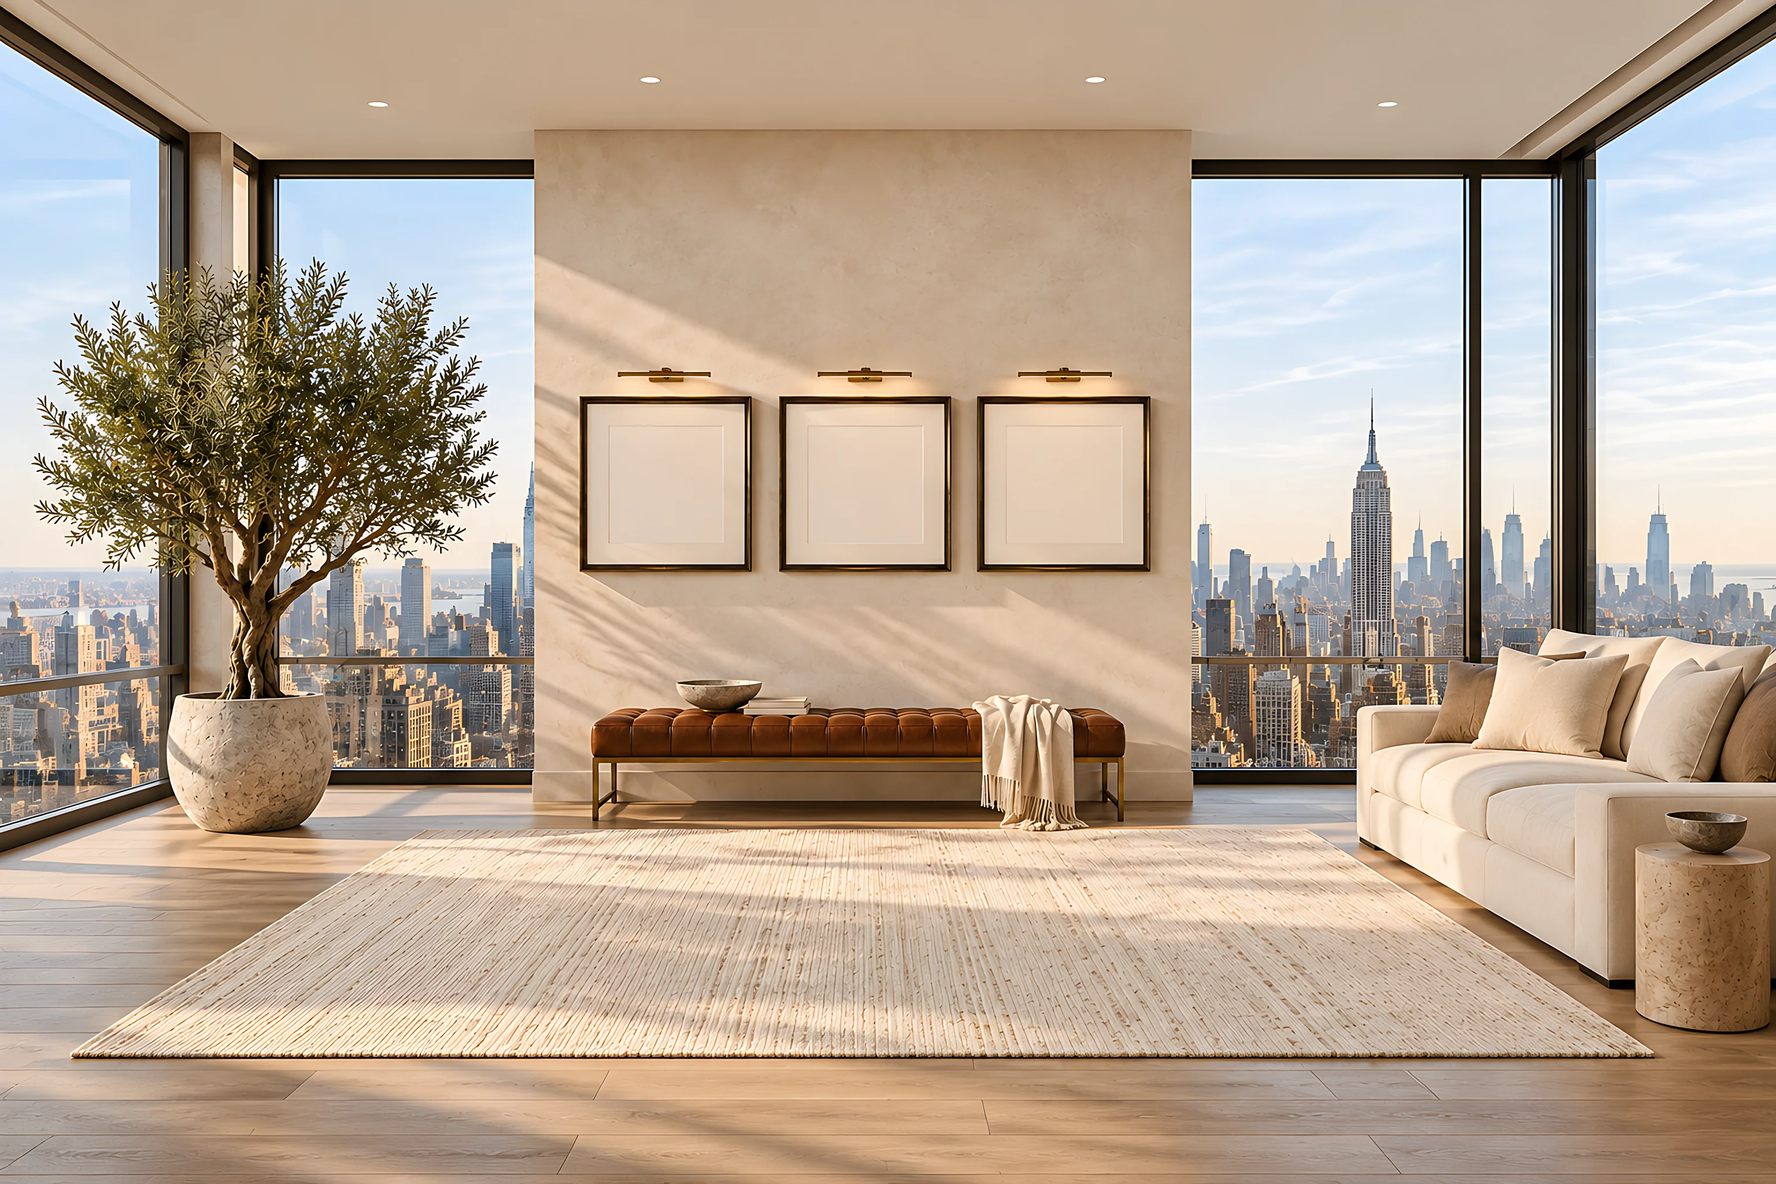
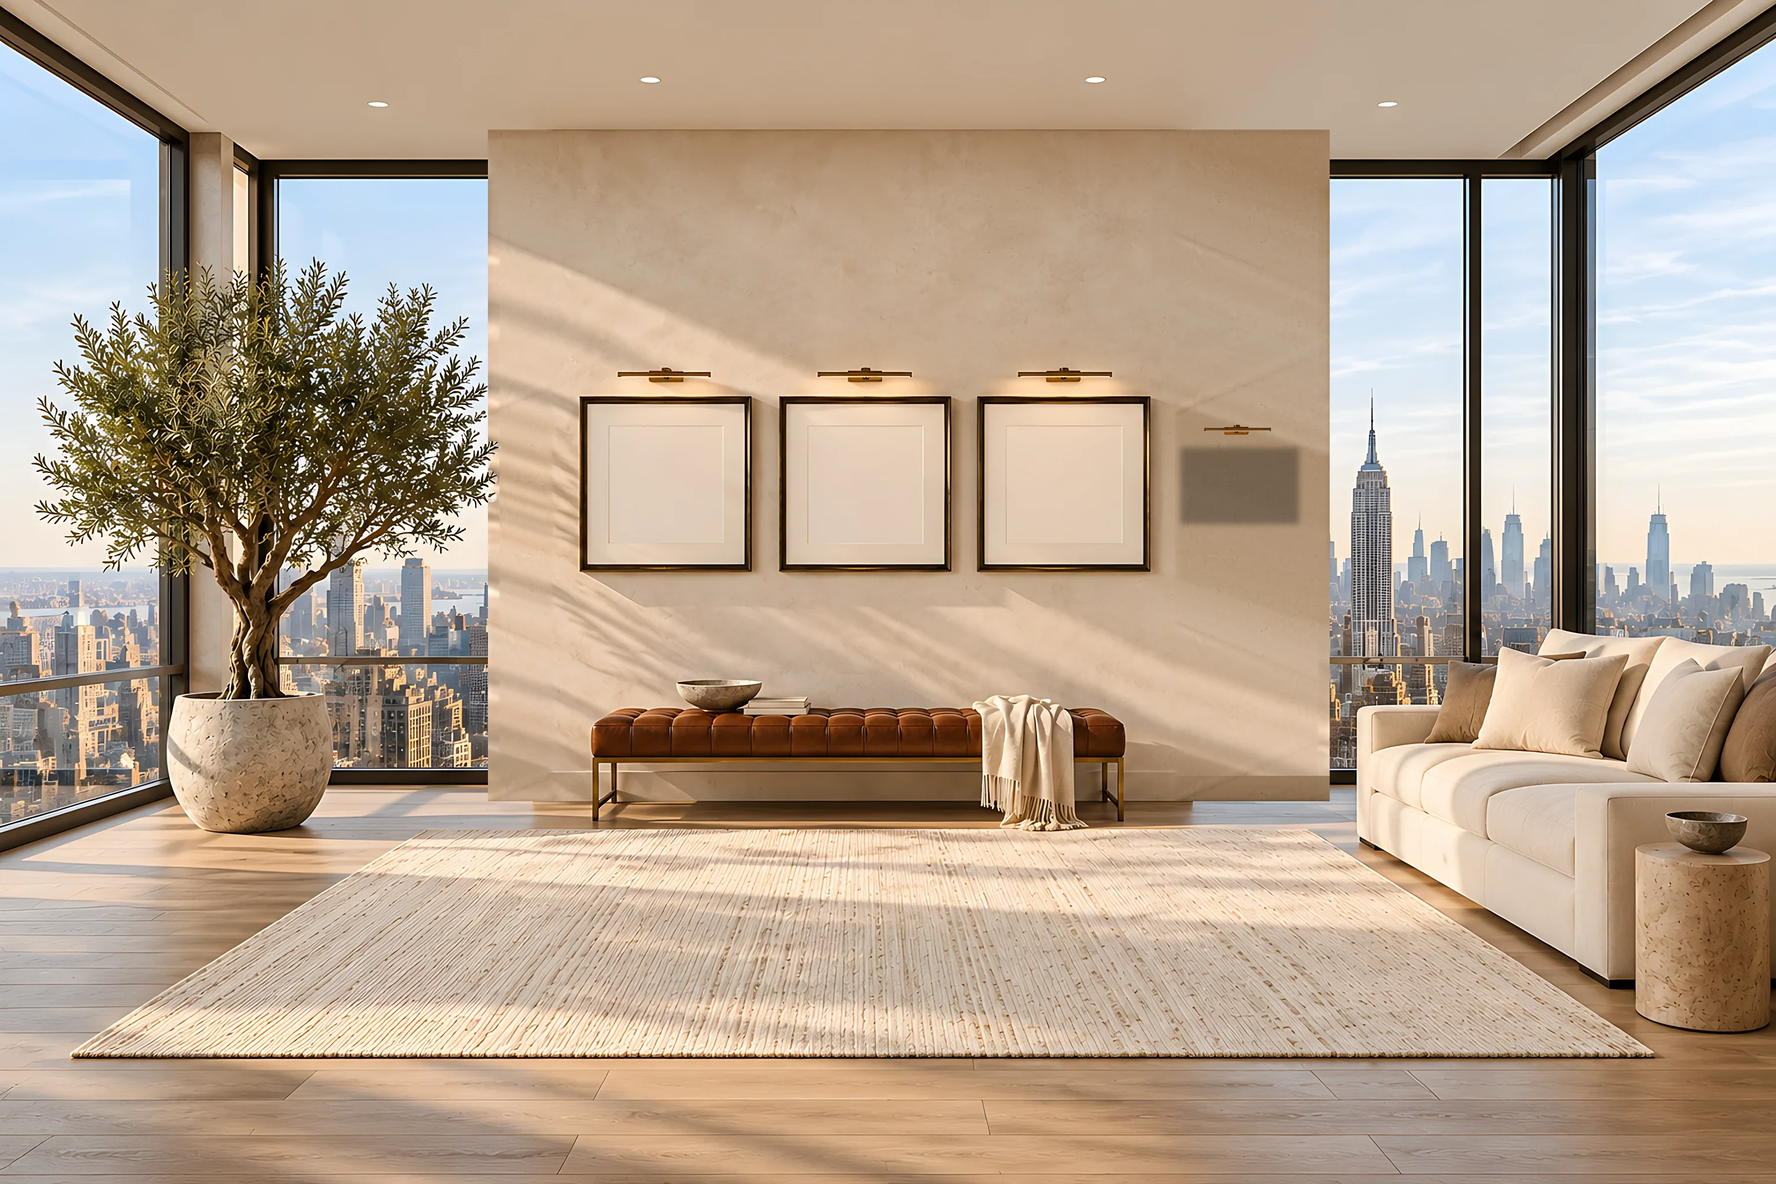
Home: widen the wall and hang Femi's travel map
The limestone wall is widened in all three lights (x 422-1150), continuing
the wall's own light, sun streaks and plaster, with the tree kept in front.
Femi's travel map hangs beside the Goldman Sachs painting with its own
picture light, lit per light like the paintings, captioned 'Travel - 30+
countries' and linking to About. Sky masks exclude the new wall; the phone
close-up widens to include the map.

Claude-Session: https://claude.ai/code/session_01Q2iX8U4MkKUcYxVfpZrcab

Changed region(s): [[0.6562, 0.0938, 0.75, 0.6875], [0.25, 0.0938, 0.3125, 0.6875]]

diff --git a/src/components/room/GalleryRoom.tsx b/src/components/room/GalleryRoom.tsx
@@ -1,6 +1,6 @@
 import Link from 'next/link'
 import Arrow from '@/components/Arrow'
-import { FRAMES, IDENTITY, ROOM_BASE, ROOM_MODES, SCENE, ZONES, rectStyle } from '@/content/scene'
+import { FRAMES, IDENTITY, MAP, ROOM_BASE, ROOM_MODES, SCENE, ZONES, rectStyle } from '@/content/scene'
 import { PERSON } from '@/content/site'
 import { LOAD_ACTIVE_LIGHT } from '@/lib/roomLights'
 import RoomLights from './RoomLights'
@@ -8,8 +8,8 @@ import RoomSky from './RoomSky'
 
 const WIDTHS = [1536, 2048, 3072]
 const ROOM_DESCRIPTION = 'A quiet gallery room high above New York: three framed paintings on a limestone wall above a leather bench, an olive tree and a sofa by floor-to-ceiling windows.'
-/** Rendered scene width per layout (see .room5 in globals.css): crop ≈ 252vw, wall = contain-fit, else full width. */
-const SIZES = '(max-width: 599px) 252vw, (min-width: 860px) and (min-height: 528px) and (min-aspect-ratio: 4/3) max(88vw, calc(100svh * 1.5)), 100vw'
+/** Rendered scene width per layout (see .room5 in globals.css): crop ≈ 228vw, wall = contain-fit, else full width. */
+const SIZES = '(max-width: 599px) 228vw, (min-width: 860px) and (min-height: 528px) and (min-aspect-ratio: 4/3) max(88vw, calc(100svh * 1.5)), 100vw'
 
 /**
  * Homepage room: one scene at the image's intrinsic 3:2 ratio. Layouts, chosen in CSS:
@@ -50,6 +50,12 @@ export default function GalleryRoom() {
               ))}
             </div>
           ))}
+          <div className="room5__art room5__art--map" style={{ ...rectStyle(MAP.mat), ['--art' as string]: `url(/art/lit/morning-map.webp)` }} aria-hidden="true">
+            {ROOM_MODES.map(m => (
+              // eslint-disable-next-line @next/next/no-img-element
+              <img key={m} data-light={m} suppressHydrationWarning data-src={`/art/lit/${m}-map.webp`} alt="" width={480} height={311} decoding="async" />
+            ))}
+          </div>
           <div className="room5__identity" style={rectStyle(ZONES.identity)}>
             <p className="room5__eyebrow">{IDENTITY.positioning}</p>
             <h1 className="room5__name">{PERSON.name}</h1>
@@ -64,11 +70,19 @@ export default function GalleryRoom() {
               </Link>
             ))}
           </nav>
+          <div className="room5__hang room5__hang--map">
+            <Link href={MAP.href} className="room5__frame room5__frame--map" style={rectStyle(MAP.hitbox)}>
+              <span className="room5__company">{MAP.title}</span>
+              <span className="room5__dates" aria-hidden="true">{MAP.note}</span>
+              <span className="sr-only">: {MAP.label}</span>
+            </Link>
+          </div>
           {/* Tablet/phone layouts: the paintings stay clickable. Keyboard and screen-reader users use the labelled list below. */}
           <div className="room5__touch" aria-hidden="true">
             {FRAMES.map(f => (
               <Link key={f.id} href={f.href} tabIndex={-1} className="room5__tap" style={rectStyle(f.hitbox)} />
             ))}
+            <Link href={MAP.href} tabIndex={-1} className="room5__tap" style={rectStyle(MAP.hitbox)} />
           </div>
         </div>
         <script dangerouslySetInnerHTML={{ __html: LOAD_ACTIVE_LIGHT }} />

diff --git a/src/content/scene.ts b/src/content/scene.ts
@@ -13,7 +13,7 @@ type Rect = [x: number, y: number, w: number, h: number]
 /** Wall text block (above the picture lights) and the slice phones see (frames + bench). */
 export const ZONES: { identity: Rect; mobileCrop: Rect } = {
   identity: [474, 150, 544, 158],
-  mobileCrop: [440, 270, 610, 450],
+  mobileCrop: [472, 250, 676, 499],   // paintings, travel map and bench
 }
 
 /** Identity on the wall. Positioning is Femi's selected emphasis; the line is a synthesis of femifalade.com. */
@@ -44,6 +44,18 @@ export const FRAMES: Frame[] = [
   { id: 'carlyle', company: 'The Carlyle Group', role: 'Associate, EMEA Fund Operations', dates: 'Jun 2021 – Nov 2023', years: '2021 – 2023', href: '/experience#the-carlyle-group', art: '/art/carlyle-painting', mat: [698, 368, 100, 102], hitbox: [670, 339, 156, 247] },
   { id: 'gs', company: 'Goldman Sachs', role: 'Senior Associate, Global Banking and Markets Transformation', dates: 'Nov 2023 – Present', years: '2023 – Present', href: '/experience#goldman-sachs', art: '/art/gs-painting', mat: [870, 368, 100, 102], hitbox: [841, 339, 157, 247] },
 ]
+
+/** The travel map hung beside the paintings on the widened wall (Femi's supplied artwork; docs/decision-log.md DL-46). */
+export const MAP = {
+  title: 'Travel',
+  /** Website wording (Travel page: "30+ countries · 60+ cities"; About: "more than thirty countries and counting"). */
+  note: '30+ countries',
+  label: 'more than thirty countries and counting',
+  href: '/about#outside-work',
+  art: '/art/map',
+  mat: [1020, 384, 102, 66] as Rect,
+  hitbox: [1004, 339, 136, 247] as Rect,
+}
 
 export const pct = (v: number, of: number) => `${(v / of) * 100}%`
 export const rectStyle = ([x, y, w, h]: Rect) => ({ left: pct(x, SCENE.w), top: pct(y, SCENE.h), width: pct(w, SCENE.w), height: pct(h, SCENE.h) })

diff --git a/src/app/globals.css b/src/app/globals.css
@@ -742,6 +742,11 @@ html[data-time='night'] .room5 img[data-light='night'] { opacity: 1; }
 /* Artwork in the mats: a live layer, never painted into the room image */
 .room5__art { position: absolute; overflow: hidden; background: #d8cbb6; }
 .room5__art img { position: absolute; inset: 0; width: 100%; height: 100%; object-fit: cover; }
+.room5__art--map { background: #e9dfcc; }
+.room5__art--map::after { box-shadow: none; }      /* the map carries its own frame; the wall shadow is in the room image */
+.room5__hang--map::before { display: none; }
+.room5__frame--map::before { content: ''; position: absolute; left: -10%; right: -10%; bottom: -4%; height: 34%; z-index: -1; background: radial-gradient(ellipse 52% 50% at 50% 56%, var(--cap-wash) 62%, transparent 100%); }
+.room5__frame--map { isolation: isolate; }
 .room5__art::after { content: ''; position: absolute; inset: 0; box-shadow: inset .14cqw .22cqw .38cqw rgba(0, 0, 0, .34), inset 0 0 0 1px rgba(0, 0, 0, .14); pointer-events: none; }
 
 /* Wall text and captions exist only in the wall layout */
@@ -777,7 +782,7 @@ html[data-time='night'] .room5 img[data-light='night'] { opacity: 1; }
 
 /* Phones: the pictures and bench up close; the scene is positioned inside a fixed window */
 @media (max-width: 599px) {
-  .room5__stage { overflow: hidden; aspect-ratio: 610 / 450; }
+  .room5__stage { overflow: hidden; aspect-ratio: 676 / 499; }
   .room5__scene { position: absolute; width: calc(100% * 1536 / var(--crop-w)); left: calc(-100% * var(--crop-x) / var(--crop-w)); top: calc(-100% * var(--crop-y) / var(--crop-h)); }
   .home-actions__row { flex-direction: column; }
   .home-actions__row .btn { justify-content: space-between; width: 100%; }

diff --git a/src/app/about/page.tsx b/src/app/about/page.tsx
@@ -73,7 +73,7 @@ export default function AboutPage() {
         </div>
       </section>
 
-      <section className="room room--plaster" aria-label="Outside work">
+      <section id="outside-work" className="room room--plaster" aria-label="Outside work" style={{ scrollMarginTop: 'var(--nav-h)' }}>
         <div className="wrap split" style={{ alignItems: 'center' }}>
           <div className="frame reveal">
             <div className="frame__inner" style={{ aspectRatio: '1 / 1' }}>

diff --git a/docs/asset-lock/scripts/wall.py b/docs/asset-lock/scripts/wall.py
@@ -1,0 +1,103 @@
+"""Widen the limestone wall in all three v5 lights (Femi: "make the background where the frames are hanged a bit bigger")
+and prepare a place for the travel map beside the Goldman Sachs painting.
+Master px (1536x1024); renders are 3072 (S=2). Wall: x 462-1030, y 112-~697. New wall: x 422-1150.
+Light: each new column continues the wall's own edge light along the measured sun-streak direction (so streaks carry on);
+plaster texture is the wall's own fine detail; the edge profile (light falloff at the corner) is moved to the new edge."""
+import cv2, numpy as np, sys
+R = '/home/user/femi-portfolio/public/room/v5/'; OUT = sys.argv[1]
+S = 2; T, B = 112, 693
+L0, L1, R0, R1 = 462, 422, 1030, 1150
+SLOPE = {'morning': .324, 'golden': .394, 'night': 0.0}
+MAP = (1020, 384, 102, 66)                 # travel map rect (master): the supplied frame is 1500x971 (1.545)
+tree = cv2.resize(cv2.imread(R + 'masks/tree.png', 0), (3072, 2048), interpolation=cv2.INTER_LINEAR).astype(np.float32) / 255
+mo = cv2.imread(R + 'morning-3072.webp').astype(np.float32)
+lum = mo @ np.array([.114, .587, .299], np.float32)
+leaf = np.maximum(np.clip((mo[..., 1] - mo[..., 0] + 2) / 14, 0, 1), np.clip((120 - lum) / 30, 0, 1))   # leaves: greener than blue, or dark
+tree = (cv2.GaussianBlur(tree, (0, 0), 4) > .02) * cv2.GaussianBlur(leaf, (0, 0), .7)
+tree = tree[..., None]
+out = {}
+for mode in ('morning', 'golden', 'night'):
+    im = cv2.imread(f'{R}{mode}-3072.webp').astype(np.float32); H, W = im.shape[:2]
+    new = im.copy(); s = SLOPE[mode]
+    hp = im - cv2.GaussianBlur(im, (0, 0), 5)                              # plaster fine texture
+    texsrc = hp[(T + 20) * S:300 * S, 470 * S:1020 * S]                   # clean plaster above the paintings
+    def extend(xa, xb, m0, m1, side):
+        """Fill master columns [xa, xb) of rows [T, B) from the wall's margin columns [m0, m1)."""
+        marg = im[:, m0 * S:m1 * S]
+        light = cv2.GaussianBlur(marg.mean(1)[:, None, :], (0, 0), sigmaX=.1, sigmaY=3)[:, 0, :]   # per-row light of the margin (H x 3)
+        if not s:                                     # night: the margin is lit by the neighbouring picture light; split
+            amb = light.copy(); g0, g1 = 300 * S, 530 * S   # ambient (glow rows bridged) + that lamp's spill
+            for c in range(3): amb[g0:g1, c] = np.linspace(light[g0, c], light[g1, c], g1 - g0)
+            spill = light - amb
+        xm = (m0 + m1) / 2
+        ys = np.arange(T * S, B * S)
+        for X in range(xa * S, xb * S):
+            dx = (X / S - xm)
+            ysrc = np.clip(ys - s * dx * S, (T + 8) * S, (B - 22) * S).astype(int)
+            col = light[ysrc] if s else amb[ysrc] + spill[ysrc] * float(np.exp(-max(abs(dx) - 8, 0) ** 2 / 18 ** 2))   # spill fades ~18 px past the old edge
+            near = ys >= (B - 22) * S                                       # base of the wall: keep the floor junction level
+            col[near] = light[ys[near]]
+            top = ys < (T + 8) * S
+            col[top] = light[ys[top]]
+            new[T * S:B * S, X] = col
+        # texture: tile the clean plaster detail (mirrored) over the new area
+        h, w = (B - T) * S, (xb - xa) * S
+        tile = np.concatenate([texsrc, texsrc[::-1]], 0); tile = np.concatenate([tile, tile[:, ::-1]], 1)
+        reps = (int(np.ceil(h / tile.shape[0])), int(np.ceil(w / tile.shape[1])), 1)
+        tx = np.tile(tile, reps)[:h, :w]
+        new[T * S:B * S, xa * S:xb * S] += tx
+        # corner: carry the old edge's light falloff (last 10 master px) to the new edge
+        k = 10 * S
+        if side == 'right':
+            ref = im[T * S:B * S, (R0 - 22) * S:(R0 - 12) * S].mean(1, keepdims=True)
+            prof = im[T * S:B * S, R0 * S - k:R0 * S] / (ref + 1)
+            new[T * S:B * S, xb * S - k:xb * S] *= cv2.GaussianBlur(prof, (0, 0), 3)
+        else:
+            ref = im[T * S:B * S, (L0 + 12) * S:(L0 + 22) * S].mean(1, keepdims=True)
+            prof = im[T * S:B * S, L0 * S:L0 * S + k] / (ref + 1)
+            new[T * S:B * S, xa * S:xa * S + k] *= cv2.GaussianBlur(prof, (0, 0), 3)
+    extend(1016, R1, 998, 1014, 'right')                # replaces the old corner shading too
+    extend(L1, 478, 480, 496, 'left')
+    for xj, m0 in ((1016, 998), (478, 480)):            # 6 px blend from the old wall into the new
+        for i in range(-6 * S, 6 * S):
+            X = xj * S + i; a = (i + 6 * S) / (12 * S)
+            if xj == 478: a = 1 - a
+            new[T * S:B * S, X] = new[T * S:B * S, X] * a + im[T * S:B * S, X] * (1 - a)
+    # the olive tree stays in front of the new wall
+    new = new * (1 - tree) + im * tree
+    # the map hangs here: a soft contact shadow, and (as for the paintings) its own picture light
+    x, y, w, h = MAP
+    np.save(f'{OUT}/maplight-{mode}.npy', new[y * S:(y + h) * S, x * S:(x + w) * S])   # wall light behind the map, before its shadow
+    sh = np.zeros((H, W), np.float32); cv2.rectangle(sh, ((x + 1) * S, (y + 3) * S), ((x + w + 1) * S, (y + h + 3) * S), 1, -1)
+    sh = cv2.GaussianBlur(sh, (0, 0), 2.5 * S)
+    new *= (1 - .32 * sh)[..., None]
+    # picture light: the Goldman Sachs lamp, scaled to the map's width, with its wall glow
+    lamp_box = (880, 314, 84, 22)                                         # lamp over the GS frame (master)
+    lx, ly, lw, lh = lamp_box
+    patch = im[ly * S:(ly + lh) * S, lx * S:(lx + lw) * S]
+    wall_ref = im[(ly - 14) * S:(ly - 4) * S, lx * S:(lx + lw) * S].mean((0, 1))
+    plum = patch @ np.array([.114, .587, .299], np.float32); wlum = wall_ref @ np.array([.114, .587, .299], np.float32)
+    alpha = np.clip((wlum - 18 - plum) / 30, 0, 1)
+    alpha = cv2.GaussianBlur(alpha, (0, 0), .8)
+    sc = 0.72; nw, nh = int(lw * S * sc), int(lh * S * sc)
+    patch = cv2.resize(patch, (nw, nh), interpolation=cv2.INTER_AREA); alpha = cv2.resize(alpha, (nw, nh))[..., None]
+    cx = (x + w / 2) * S; py = int((y - 4) * S - nh)
+    px = int(cx - nw / 2)
+    # glow on the wall below the lamp: measured from the GS lamp (wall just under it vs the plain margin, same rows)
+    glow_gs = im[(ly + lh) * S:(ly + lh + 12) * S, (lx + 10) * S:(lx + lw - 10) * S].mean() / (im[(ly + lh) * S:(ly + lh + 12) * S, 1000 * S:1026 * S].mean() + 1)
+    gy, gx = np.mgrid[0:H, 0:W].astype(np.float32)
+    cone = np.exp(-(((gx - cx) / (w * .42 * S)) ** 2) - ((gy - py - h * .3 * S) / (h * .75 * S)) ** 2)
+    gain = max(glow_gs - 1, 0)
+    new *= (1 + gain * cone)[..., None]
+    reg = new[py:py + nh, px:px + nw]
+    new[py:py + nh, px:px + nw] = reg * (1 - alpha) + patch * alpha
+    out[mode] = np.clip(new, 0, 255)
+    print(mode, 'lamp glow gain', round(float(gain), 3))
+    for wd in (3072, 2048, 1536):
+        cv2.imwrite(f'{OUT}/{mode}-{wd}.webp', cv2.resize(out[mode], (wd, wd * 2 // 3), interpolation=cv2.INTER_AREA).astype(np.uint8), [cv2.IMWRITE_WEBP_QUALITY, 88])
+# review: before/after, all lights
+rows = []
+for mode in out:
+    b = cv2.imread(f'{R}{mode}-3072.webp')
+    rows.append(np.hstack([b[180:1480, 700:2400], out[mode][180:1480, 700:2400].astype(np.uint8)]))
+cv2.imwrite(f'{OUT}/review.jpg', cv2.resize(np.vstack(rows), None, fx=.3, fy=.3), [1, 88])

diff --git a/docs/asset-lock/scripts/map.py b/docs/asset-lock/scripts/map.py
@@ -1,0 +1,16 @@
+"""Travel map (Femi's supplied artwork) as a live layer per light, lit by the wall it hangs on (same method as relight.py)."""
+import cv2, numpy as np, sys
+SRC, WALL, OUT = sys.argv[1:4]
+art = cv2.imread(SRC)[24:995, 18:1518].astype(np.float32)          # the frame itself, without the supplied wall around it
+W, H = 480, 311
+cv2.imwrite(f'{OUT}/map.webp', cv2.resize(art, (W, H), interpolation=cv2.INTER_AREA).astype(np.uint8), [cv2.IMWRITE_WEBP_QUALITY, 88])
+art = cv2.resize(art, (W, H), interpolation=cv2.INTER_AREA)
+walls = {m: np.load(f'{WALL}/maplight-{m}.npy') for m in ('morning', 'golden', 'night')}
+ref = np.median(walls['morning'].reshape(-1, 3), 0)
+for m, wl in walls.items():
+    light = np.clip(cv2.GaussianBlur(wl, (0, 0), 3) / ref, 0, 1.3)
+    Y = (light @ np.array([.0722, .7152, .2126], np.float32))[..., None] + 1e-4
+    light = Y * (light / Y) ** .4
+    light = cv2.resize(light, (W, H), interpolation=cv2.INTER_CUBIC)
+    cv2.imwrite(f'{OUT}/lit/{m}-map.webp', np.clip(art * light, 0, 255).astype(np.uint8), [cv2.IMWRITE_WEBP_QUALITY, 86])
+    print(m, 'mean light', light.reshape(-1, 3).mean(0).round(3))

diff --git a/docs/qa/wall-map/README.md b/docs/qa/wall-map/README.md
@@ -1,0 +1,26 @@
+# Wider wall and travel map (Femi, 15 Oct)
+
+Requests:
+- "make the background where the frames are hanged a bit bigger"
+- the travel map Femi supplied
+
+Femi's choices: widen the wall in the room image, and hang the map beside the Goldman Sachs painting.
+
+## Wall (`docs/asset-lock/scripts/wall.py`, all three lights, 3072/2048/1536)
+- **Size:** x 462–1030 → **422–1150** (master px). It stops short of the Empire State Building, and the tree stays in front on the left (leaf matte).
+- **Light:** each new column continues the wall's own edge light along the measured sun-streak angle (morning 0.32, golden 0.39), so the streaks carry on. At night, the light is the room's ambient light plus the neighbouring picture light's spill, fading with distance.
+- **Texture and corners:** the plaster texture is the wall's own fine detail. The old corner shading moves to the new edges, with a 6 px blend at the joins.
+- **Map hanging:** the map gets a soft contact shadow and its own picture light, a scaled copy of the Goldman Sachs lamp, which glows at night.
+- **Sky masks:** the moving-sky masks and `masks/window.png` no longer include the new wall areas.
+
+## Map (`map.py`)
+- **Source:** Femi's artwork, cropped to its frame (1500×971).
+- **Lighting:** lit per light by the wall behind it (same method as the paintings), shown as a live layer at mat `[1020, 384, 102, 66]`.
+- **Link:** "Travel · 30+ countries", in the same style as the company captions, linking to `/about#outside-work`. There's a tap target on tablet and phone. The phone close-up now shows the paintings, the map and the bench (crop `[472, 250, 676, 499]`).
+
+## Verified (Chromium)
+- **Layout:** at 1920×1080 and 1366×657 in all three lights, the map loads and clicks through to About. At 900×1200 and 390×844 the tap targets work. Nothing overflows the page width. The moving sky stays on.
+- **Caption contrast** (rendered pixels): "Travel" 8.4–9.0, "30+ countries" 5.9–9.0, all ≥ 4.5.
+
+## Content note
+The artwork's own text reads **"30 countries visited · 60+ cities explored"**. The website says "30+ countries · 60+ cities". The wall caption uses the website wording (D-25).

diff --git a/docs/decision-log.md b/docs/decision-log.md
@@ -50,3 +50,4 @@ Newest last. Each entry records the decision, why it was made and what would rev
 | DL-43 | 2026-10-14 | 7 | Golden hour and night get moving skies from Femi's two new clips, built the same way as morning (sky only, wall-locked), slowed 2× and looped with an optical-flow morph. Each light has its own sky mask. | All three lights now have real movement. Both clips' clouds drift coherently, unlike the morning clip (docs/qa/sky-v3) | Femi supplies locked-off clips → also animate city lights/skyline |
 | DL-44 | 2026-10-14 | 5 | The Experience page shows each company's **Home painting** (the same supplied artwork), hung as a small framed picture above the company name. It's decorative (`alt=""`), because the name follows it. | Femi: "the company logo used in the home page [should] also appear accordingly in the experience". This extends DL-19 from Home to Experience. | Femi prefers official marks there |
 | DL-45 | 2026-10-15 | 5 | Femi's two new interiors become full-bleed page images under the heading: **monitor on a stone console → Work**, **walnut desk above Manhattan → Experience**. Supersedes DL-20 for those two pages. | Femi: "use one for work page and the other for experience page". The diagram on the monitor suits process and work; the office and skyline suit a career | Femi swaps them |
+| DL-46 | 2026-10-15 | 4 | The Home wall is **widened in the room image** (x 422–1150 in all lights) and Femi's **travel map** hangs beside the Goldman Sachs painting, with its own picture light. It's a live, per-light layer linking to About, captioned "Travel · 30+ countries". The phone crop widens to include it. | Femi chose "Widen wall, hang map" and "Wider wall in the room". It's the career + life balance suggested for a well-rounded image (docs/qa/wall-map) | Femi prefers the map elsewhere |

diff --git a/docs/discrepancies.md b/docs/discrepancies.md
@@ -156,3 +156,6 @@ Branch B:src/content/site.ts#L47 and #L155 already display the spec version.
 **D-24 🟡 Main's website shows no company logos**
 - The work cards use initials only (M:src/app/page.tsx#L41-L50).
 - Earlier, Femi said "the earlier website has the logos". If so, **the live site may differ from `main`** — one more reason to verify the live pages.
+
+## D-25 Travel map wording
+Femi's supplied map artwork reads "30 countries visited · 60+ cities explored". The website's Travel page says "30+ countries · 60+ cities", and About says "more than thirty countries and counting". The wall caption and link text use the website wording. The artwork's own text is unchanged, and it's too small to read in the room. **Ask Femi** which count is current.
